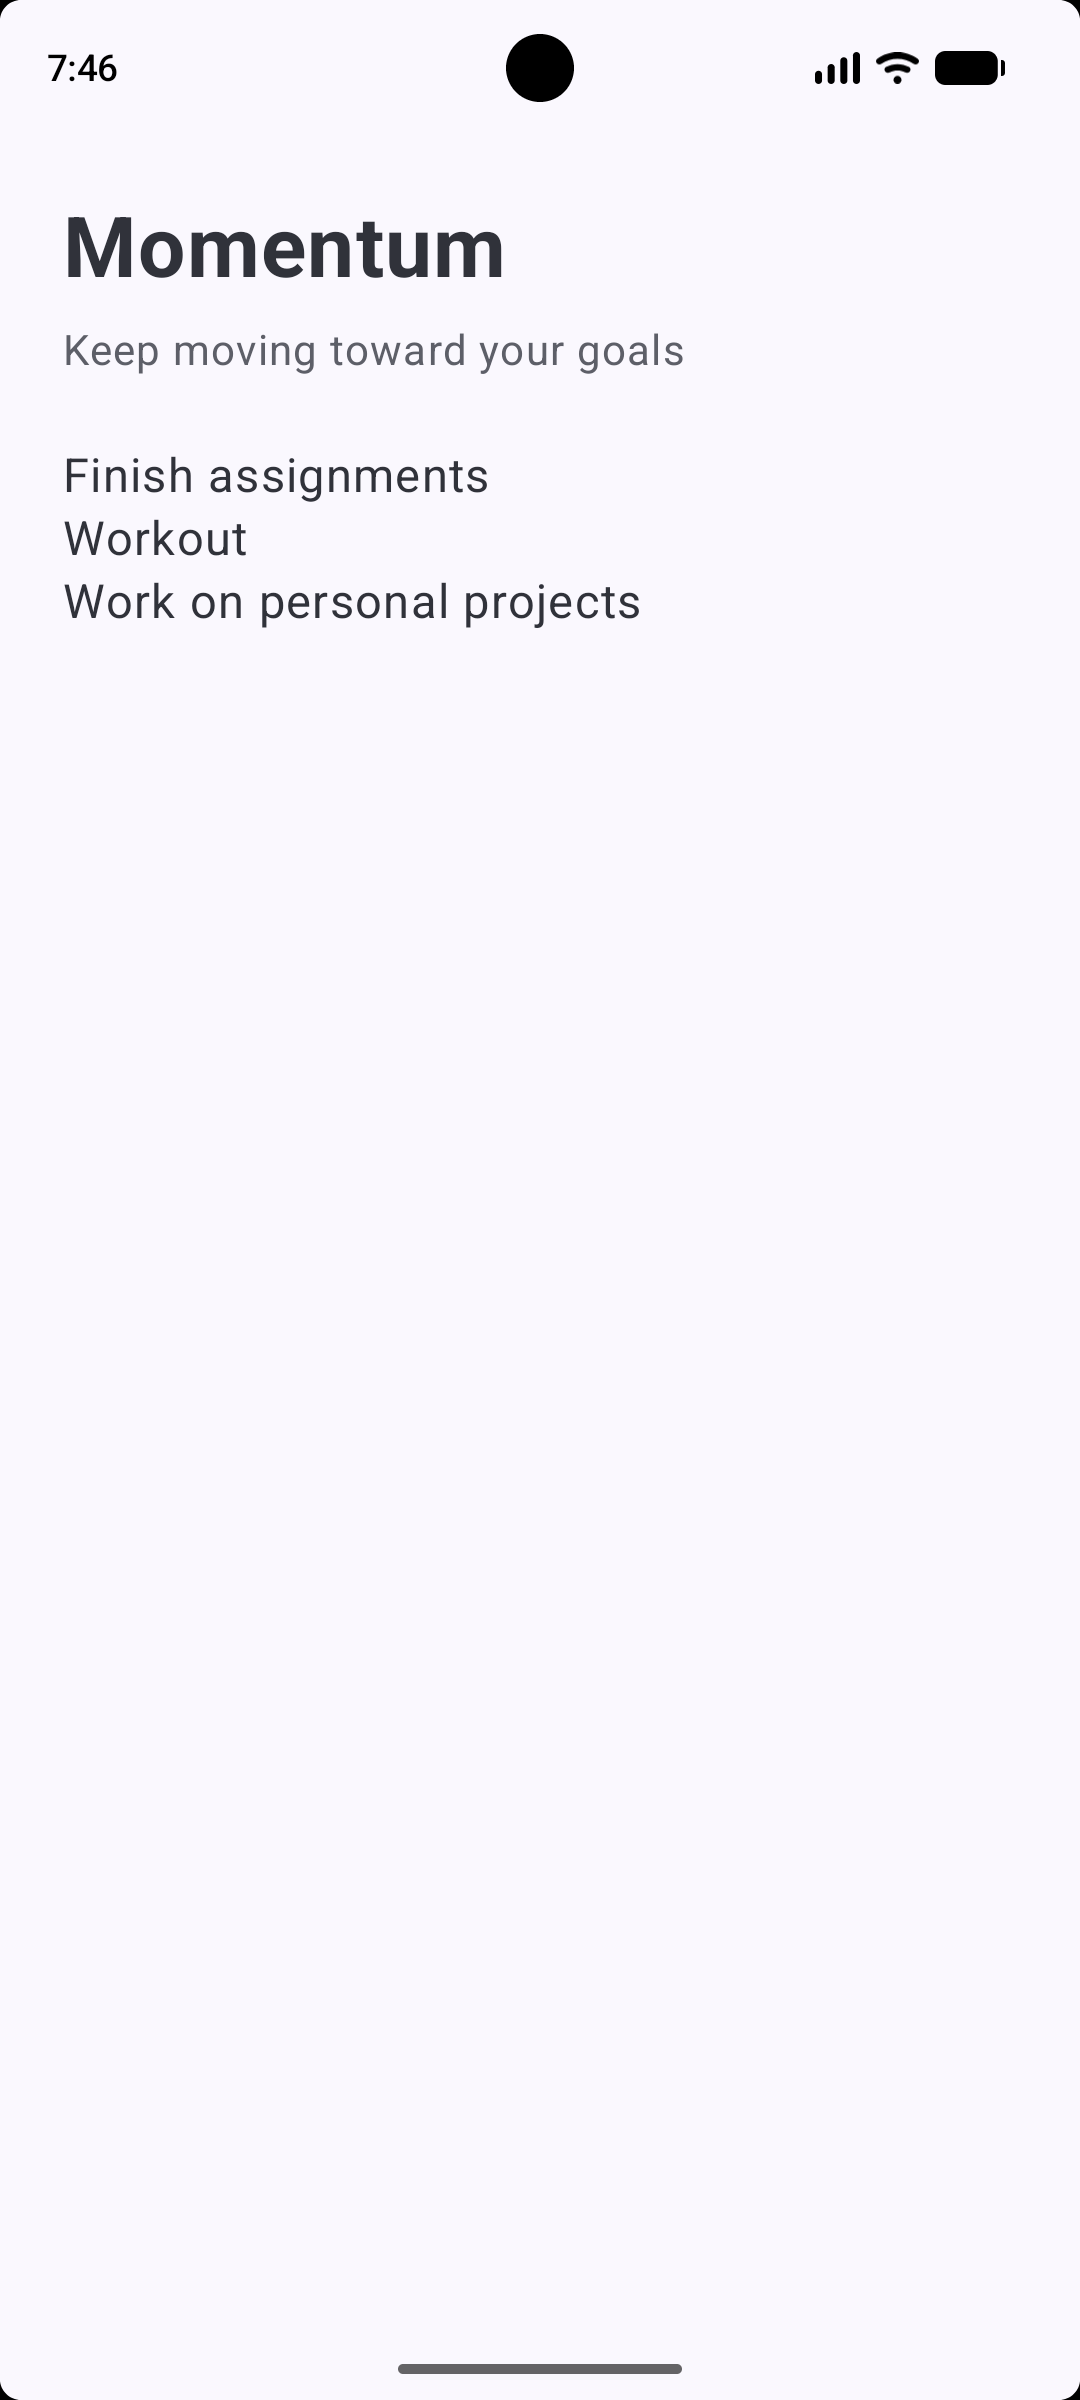
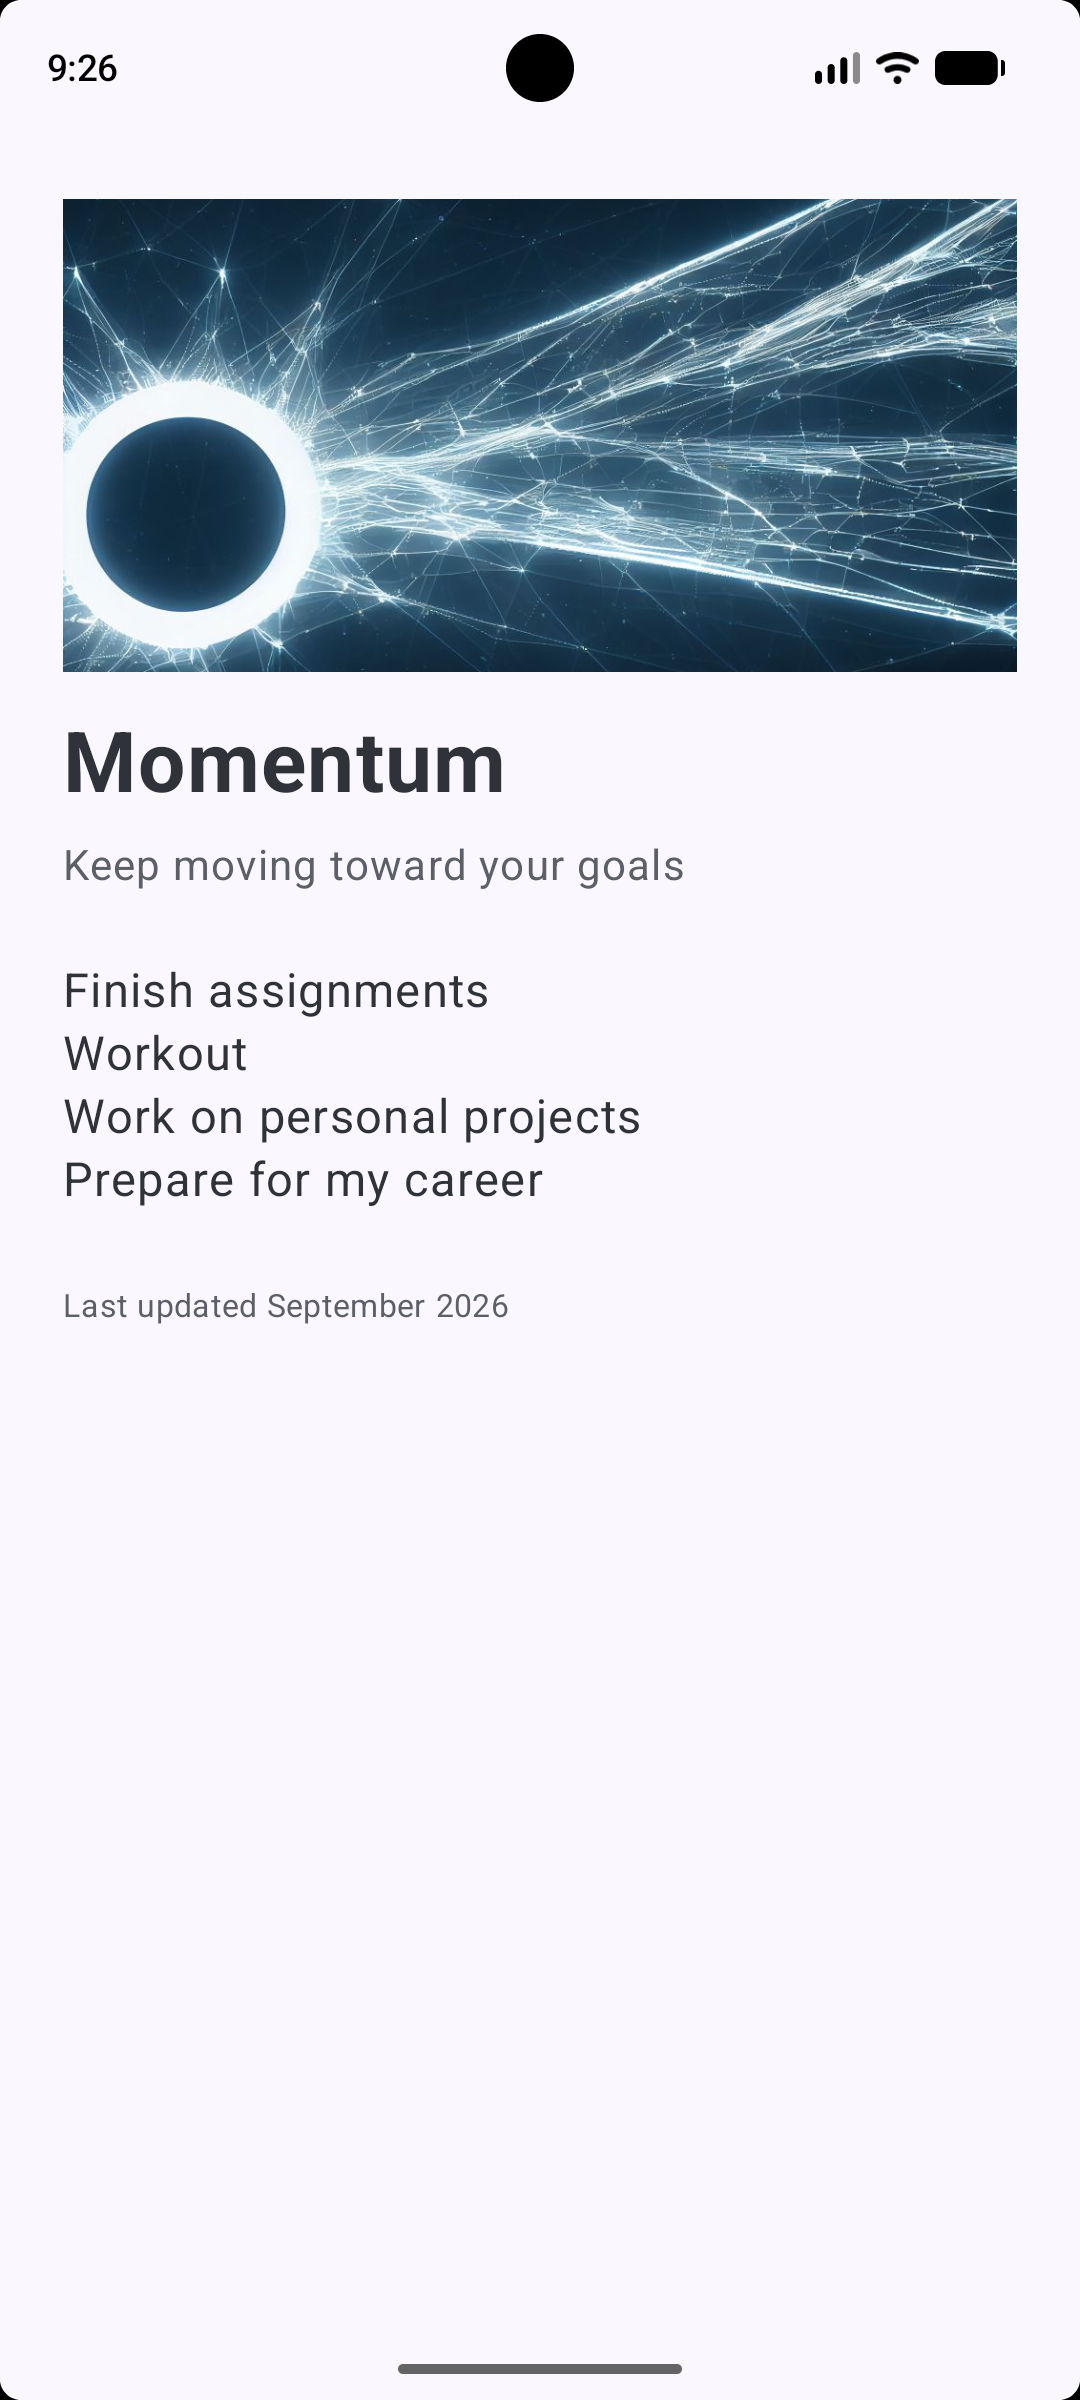
Lab 6 done

diff --git a/app/src/main/java/edu/lemoyne/campusapp/MainActivity.kt b/app/src/main/java/edu/lemoyne/campusapp/MainActivity.kt
@@ -1,9 +1,11 @@
 package edu.lemoyne.campusapp
 
+import android.content.res.Configuration
 import android.os.Bundle
 import androidx.activity.ComponentActivity
 import androidx.activity.compose.setContent
 import androidx.activity.enableEdgeToEdge
+import androidx.compose.foundation.Image
 import androidx.compose.foundation.layout.Column
 import androidx.compose.foundation.layout.Spacer
 import androidx.compose.foundation.layout.fillMaxSize
@@ -12,13 +14,17 @@ import androidx.compose.foundation.layout.height
 import androidx.compose.foundation.layout.padding
 import androidx.compose.material3.MaterialTheme
 import androidx.compose.material3.Scaffold
+import androidx.compose.material3.Surface
 import androidx.compose.material3.Text
 import androidx.compose.runtime.Composable
 import androidx.compose.ui.Modifier
+import androidx.compose.ui.layout.ContentScale
+import androidx.compose.ui.res.painterResource
 import androidx.compose.ui.text.font.FontWeight
 import androidx.compose.ui.tooling.preview.Preview
 import androidx.compose.ui.unit.dp
 import androidx.compose.ui.unit.sp
+import androidx.core.content.pm.ShortcutInfoCompat
 import edu.lemoyne.campusapp.ui.theme.CampusAppTheme
 
 class MainActivity : ComponentActivity() {
@@ -49,6 +55,18 @@ fun HomeScreen(modifier: Modifier = Modifier) {
             .padding(24.dp)
     ) {
 
+        // --- Lab 6 · Task 3: a picture of my own ---
+        Image(
+            painter = painterResource(id = R.drawable.header),
+            contentDescription = "Abstract digital lines representing progress and momentum",
+            contentScale = ContentScale.Crop,
+            modifier = Modifier
+                .fillMaxWidth()
+                .height(180.dp)
+        )
+
+        Spacer(modifier = Modifier.height(16.dp))
+
         // --- Class 6 · Step 4: real styling ---
         Text(
             text = "Momentum",
@@ -75,10 +93,24 @@ fun HomeScreen(modifier: Modifier = Modifier) {
             text = "Workout",
             fontSize = 18.sp
         )
-
         Text(
             text = "Work on personal projects",
             fontSize = 18.sp
+        )
+
+        // --- Lab 6 · Task 1: another goal ---
+        Text(
+            text = "Prepare for my career",
+            fontSize = 18.sp
+        )
+
+        // --- Lab 6 · Task 2: footer ---
+        Spacer(modifier = Modifier.height(24.dp))
+
+        Text(
+            text = "Last updated September 2026",
+            fontSize = 12.sp,
+            color = MaterialTheme.colorScheme.onSurfaceVariant
         )
     }
 }
@@ -92,3 +124,16 @@ fun HomeScreenPreview() {
     }
 }
 
+// --- Lab 6 · Task 4: dark mode preview ---
+@Preview(
+    showBackground = true,
+    uiMode = Configuration.UI_MODE_NIGHT_YES
+)
+@Composable
+fun HomeScreenDarkPreview() {
+    CampusAppTheme {
+        Surface {
+            HomeScreen()
+        }
+    }
+}

diff --git a/NOTES.md b/NOTES.md
@@ -4,4 +4,6 @@
 
 2. In dark mode, the background automatically changed from white to black, and the text changed from black to white.
 
-3. The app UI is still new to me. I don't fully understand what all of the different UI components and settings do yet.
+3. The app UI is still new to me. I don't fully understand what all the different UI components and settings do yet.
+
+4. 9/25: Week 5, Friday. I changed the Column padding from 24.dp to 40.dp. This moved the content farther away from the edges of the screen and made the surrounding space larger.
